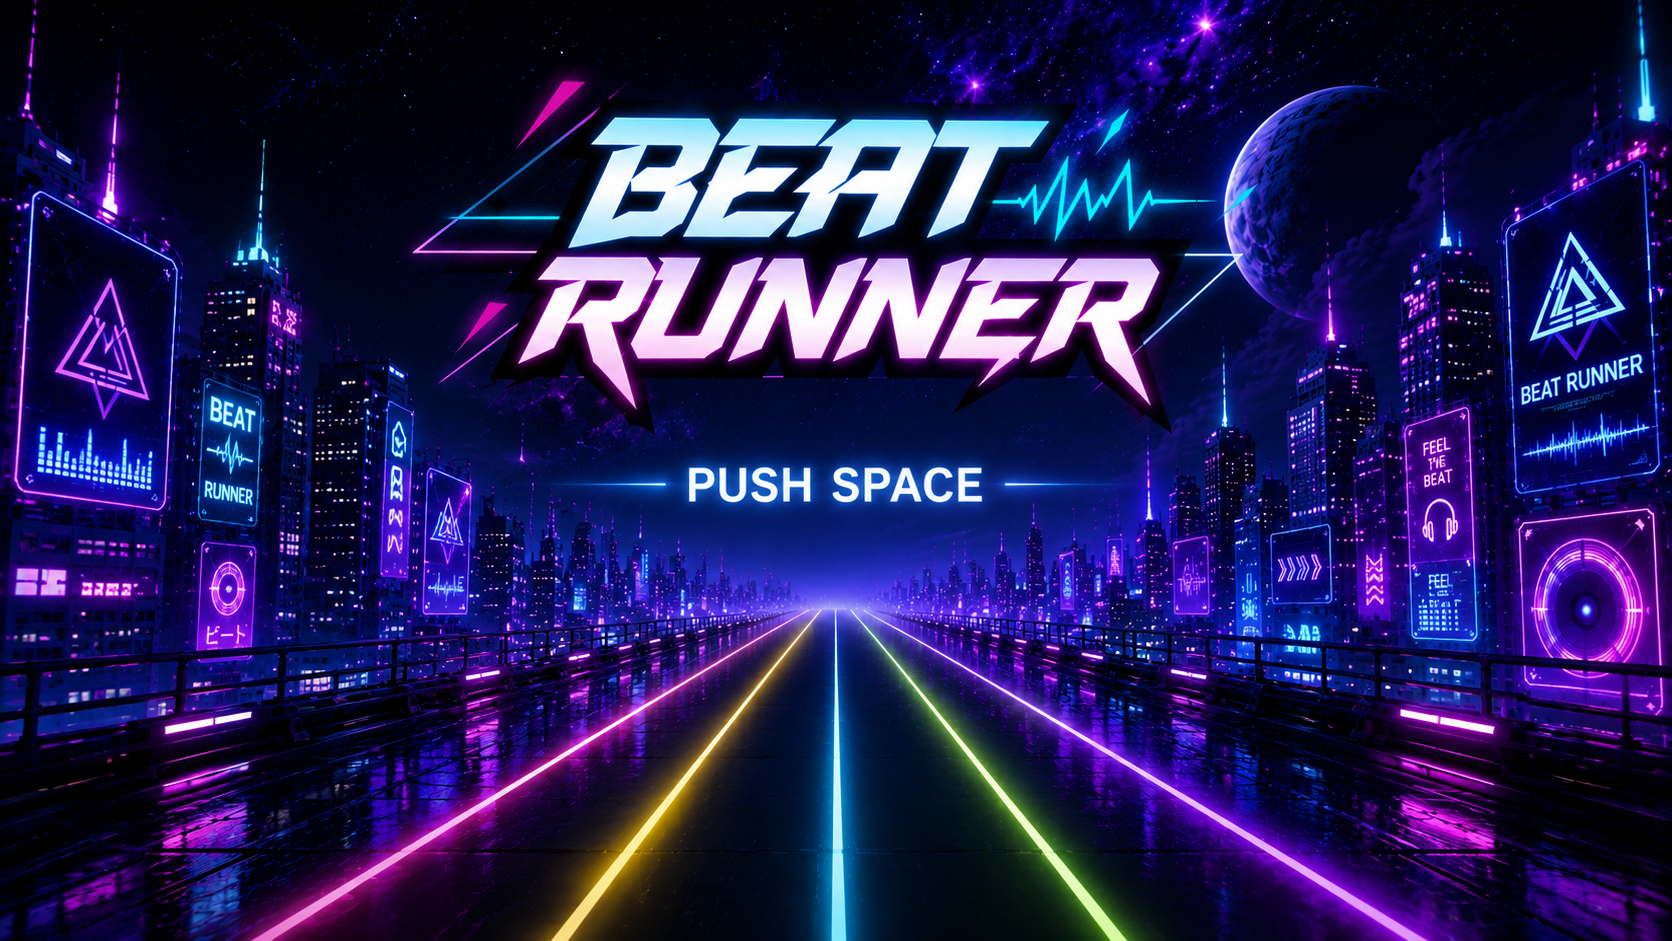
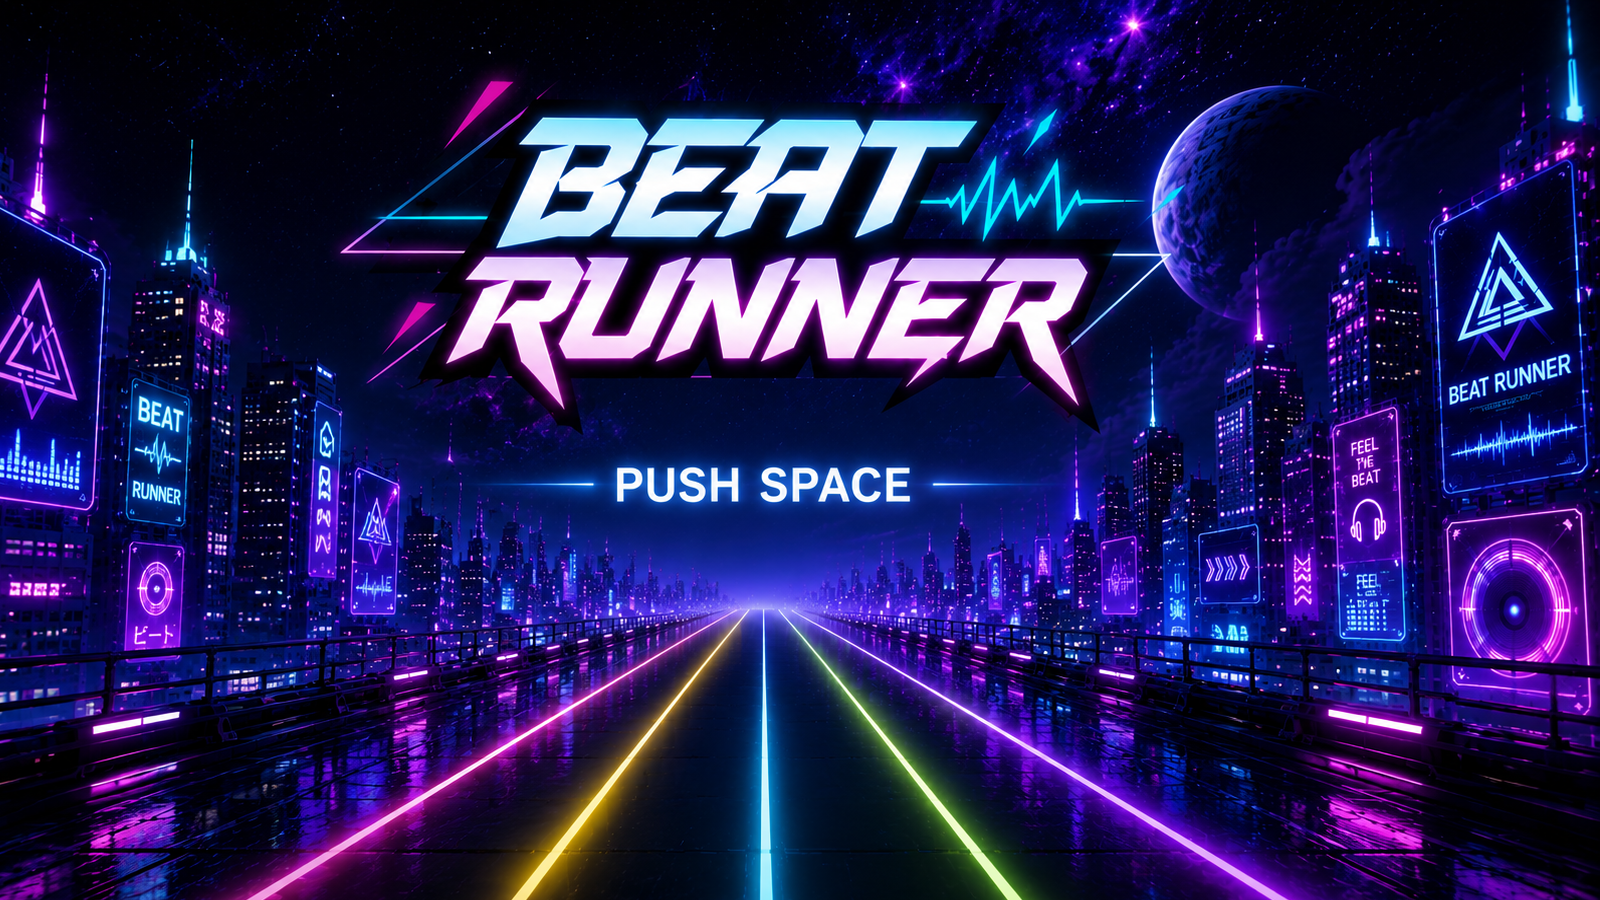
title画面、画像の調整 カメラ位置変更 クリア時のカメラの挙動

diff --git a/Player.cpp b/Player.cpp
@@ -53,6 +53,22 @@ Player::Player(GameObject* parent)
         {
             PlayerHP = Player->GetInt(i, 1);
         }
+        if (tag == "cameraHeight")
+        {
+			cameraHeight = Player->GetFloat(i, 1);
+        }
+        if (tag == "cameraBackDistance")
+        {
+            cameraBackDistance = Player->GetFloat(i, 1);
+        }
+        if (tag == "cameraTargetHeight")
+        {
+            cameraTargetHeight = Player->GetFloat(i, 1);
+        }
+        if (tag == "cameraTargetForward")
+        {
+            cameraTargetForward = Player->GetFloat(i, 1);
+        }
     }
 
     delete Player;
@@ -124,6 +140,11 @@ void Player::Initialize()
 void Player::Update()
 {
     rhythmActionTriggered_ = false;
+
+    if (isClearPerformance_)
+    { 
+        return;
+    }
 
     if (effectTimer_ > 0)
     {
@@ -242,12 +263,18 @@ void Player::Update()
 
         XMFLOAT3 camPos(
             p.x,
-            p.y + 3.0f,
-            p.z - 6.0f
+            p.y + cameraHeight,
+            p.z - cameraBackDistance
+        );
+
+        XMFLOAT3 camTarget(
+            p.x,
+            p.y+cameraTargetHeight,
+            p.z+cameraTargetForward
         );
 
         Camera::SetPosition(camPos);
-        Camera::SetTarget(p);
+        Camera::SetTarget(camTarget);
     }
 
 }
@@ -291,4 +318,44 @@ void Player::OnCollision(GameObject* pTarget)
 
         pTarget->KillMe();
     }
+}
+
+void Player::StartClearPerformance()
+{
+    isClearPerformance_ = true;
+    clearTimer_ = 0.0f;
+}
+
+bool Player::UpdateClearPerformance(float dt)
+{
+    if (!isClearPerformance_)
+    {
+        return false;
+    }
+    clearTimer_ += dt;
+    // 回転
+    transform_.rotate_.y += clearRotateSpeed_ * dt;
+    // 前進
+    transform_.position_.z += clearForwardSpeed_ * dt;
+    // 上昇
+    transform_.position_.y += clearUpSpeed_ * dt;
+
+    XMFLOAT3 p = transform_.position_;
+
+    XMFLOAT3 camPos(
+        p.x,
+        p.y + 2.5f,
+        p.z - 7.0f
+    );
+
+    XMFLOAT3 camTarget(
+        p.x,
+        p.y + 1.0f,
+        p.z
+    );
+
+    Camera::SetPosition(camPos);
+    Camera::SetTarget(camTarget);
+
+    return clearTimer_ >= clearPerformanceTime_;
 }

diff --git a/PlayScene.h b/PlayScene.h
@@ -26,4 +26,17 @@ public:
 
 private:
 	GameConfig gameConfig_;
+	enum class ClearState
+	{
+		Playing,
+		PlayerPerformance,
+		ShowClear,
+		ChangeResult
+	};
+	ClearState clearState_ = ClearState::Playing;
+	float clearTimer_ = 0.0f;
+
+	int hClearImage_ = -1;
+	Transform clearImageTransform_;
+	float clearShowTime_ = 1.2f;
 };

diff --git a/SideObject.cpp b/SideObject.cpp
@@ -18,6 +18,8 @@ void SideObject::Initialize()
 	hBuildingModels_[1] = Model::Load("Models/Object_B.fbx");
 	hBuildingModels_[2] = Model::Load("Models/Object_C.fbx");
 
+    SetupSidePositions();
+
 	buildings_.clear();
 
     for (int i = 0; i < buildingCountPerSide_; ++i)
@@ -77,7 +79,7 @@ void SideObject::SetupSidePositions()
 {
     Lane* leftLane = Lane::FindByName("lane1");
 
-    const std::string rightLaneName = "Lane" + std::to_string(Lane::laneCount);
+    const std::string rightLaneName = "lane" + std::to_string(Lane::laneCount);
 	Lane* rightLane = Lane::FindByName(rightLaneName);
     if (leftLane != nullptr) {
 		leftX_ = leftLane->GetLaneCenterX()-sideOffset_;

diff --git a/Music.h b/Music.h
@@ -27,10 +27,13 @@ public:
     double GetNowSec()const { return nowSec_; }
     void LoadSelectedMusic();
 
+    bool IsMusicFinished()const { return finished_; }
+
 
 private:
     int hSound_;
     bool started_;
+    bool finished_;
     double nowSec_;
     std::string musicName;
 

diff --git a/SideObject.h b/SideObject.h
@@ -37,7 +37,7 @@ private:
     float startZ_ = 80.0f;
     float endZ_ = -20.0f;
     float intervalZ_ = 12.0f;
-	float sideOffset_ = 2.0f;
+	float sideOffset_ = 8.0f;
 
     float leftX_ = -8.0f;
     float rightX_ = 8.0f;

diff --git a/Lane.cpp b/Lane.cpp
@@ -44,6 +44,7 @@ void Lane::Initialize()
     hLaneModel_ = Model::Load("Models/Lane.fbx");
     assert(hLaneModel_ >= 0);
 
+    float centerIndex = (Lane::laneCount - 1) * 0.5f;
     float offset = (laneIndex_ - (laneCount+1) * 0.5f) * laneWidth;
     transform_.position_.x = offset;
     transform_.position_.y = -1.0f;